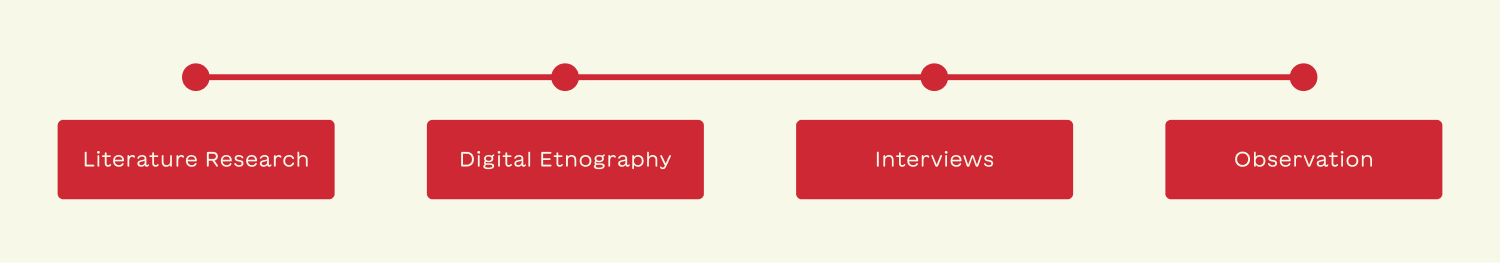
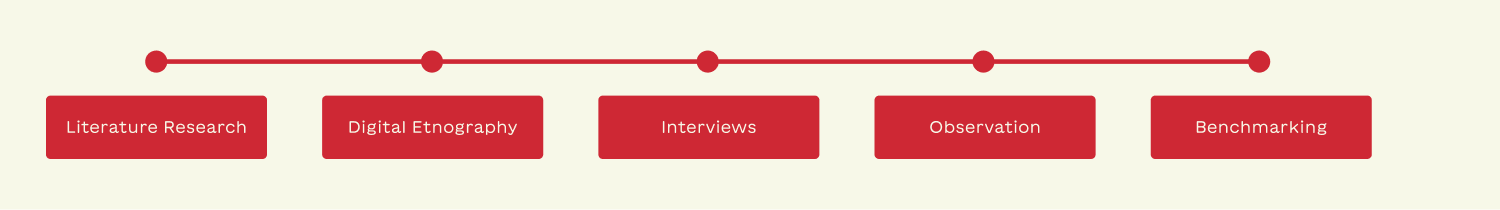
Research online

diff --git a/src/content/docs/guides/01-research.md b/src/content/docs/guides/01-research.md
@@ -3,9 +3,132 @@ title: Research
 description: Every good project starst with a lot of research.
 ---
 
-Guides lead a user through a specific task they want to accomplish, often with a sequence of steps.
-Writing a good guide requires thinking about what your users are trying to do.
+## Brief
 
-## Further reading
+**Natural Interactions**:
+Creating a delightful user experience through naturalness.
 
-- Read [about how-to guides](https://diataxis.fr/how-to-guides/) in the Diátaxis framework
+**City for All**:
+Addressing the challenges of citizens in a smart environment.
+
+### Natural Interaction
+
+_How did we interpret this concept?_
+
+For us Natural interactions are any way of communicating with an animate or inanimate entity intuitively, providing a contextual understanding and knowledge.
+
+It revolves around the concepts of **unobtrusiveness** and **intuition**.
+
+A natural interaction utilizes [tacit knowledge](https://www.sciencedirect.com/topics/computer-science/tacit-knowledge) in the following four categories: simple physics (gravity, friction, persistence of objects, relative scale); body awareness (proprioception, range of motion, two-handed coordination, whole-body interaction); environment awareness (navigation, depth perception, distance between objects); and social awareness and skills (presence of others, verbal and nonverbal communication).
+
+## Our Research path
+
+![Methodology](../../../assets/img/01_research/00.png)
+_Fig. 1.1 – Our Methodology_
+
+### Literature research
+
+We started our research focusing on neurodivergent people, trying to understand the broad spectrum of neurological differences, including Autism Spectrum Disorder (ASD), ADHD, and dyslexia, among others. We recognized the importance of acknowledging these differences, as they represent the diverse ways in which the brain functions and interprets information.
+
+In our research, we decided to put a particular emphasis on ASD. We've learned that ASD is not just about the challenges it presents but also involves a unique set of cognitive and social traits. The literature we've reviewed marks a significant shift from viewing ASD through a deficit-focused lens to a more comprehensive understanding of its characteristics. We've delved into how ASD affects cognitive processing and social interactions, gaining a more nuanced understanding of this condition.
+
+Furthermore, our research has led us to examine the impact of sports and physical activities on individuals with ASD. We've found compelling evidence that sports can greatly improve motor skills, enhance social interactions, and positively affect mental health for those on the spectrum. These findings highlight the importance of sports as not only a means of physical development but also as a valuable tool for social and skill development, crucial for the overall well-being of individuals with ASD.
+
+**All is for kids not adults**
+
+### Digital Ethnography
+
+Using more than 20,000 comments from YouTube videos related to ASD, keywords were taken out to analyze and then understand the thinking and perception of people. This was then categorized to better understand the issues faced and the design intervention possibilities.
+
+![Word Cloud](../../../assets/img/01_research/01.png)
+_Fig. 1.2 – Word Cloud_
+
+![Methodology](../../../assets/img/01_research/03.png)
+_Fig. 1.3 – _
+
+![Methodology](../../../assets/img/01_research/04.png)
+_Fig. 1.4 – _
+
+### Interviews
+
+After an initial desk research phase, we conducted interviews with individuals diagnosed with ASD and caretakers to understand the needs of these individuals through first-hand information. Based on these **interviews** we produced **empathy maps** to identify the pain points.
+
+![Intreviewees](../../../assets/img/01_research/05.png)
+_Fig. 1.5 – The people we interviewed_
+
+https://www.figma.com/embed?embed_host=notion&url=https%3A%2F%2Fwww.figma.com%2Ffile%2FUTkDIgZWIjtKdC09k3eOOx%2FFDS-%7C-Website%3Ftype%3Ddesign%26node-id%3D191-1506%26mode%3Ddesign%26t%3DVdBQ1izPf1gklZxv-11
+
+The pain points mentioned in the interview were matching with our literature research, as the interviewees mentioned they struggle with their social relationships, found the sensory input overwhelming, and appreciate patience and understanding in communication and hobbies to release energy.
+
+A common point that was mentioned in the interviews was that most of the interventions, support systems, and therapy sessions are usually organized for children, and less for young adults or adults. As we identified this gap, we decided to mainly focus on young adults and adults.
+
+## Field Observation (PlayMore! visit)
+
+(PLAYMORE OBSERVATIONS & PICZZ)
+
+### What is _PlayMore!_?
+
+![PlayMore!](../../../assets/img/01_research/06.jpeg)
+_Fig. 1.6 – The entrance of PlayMore!_
+
+PlayMore is a sports center based in Milano, in Via della Moscova. They organize multiple sports activities and events and many associations work inside the PlayMore! space. One of these associations is RunChallenge.
+
+### What is RunChallenge?
+
+![The Flocky Team](../../../assets/img/01_research/07.jpeg)
+_Fig. 1.7 – Team Flocky ready to run_
+
+RunChallenge is a network of inclusive running clubs, now widespread all over Italy (and some of Europe), with a total of 11 branches.
+
+They organize group running sessions for every ability, promoting a healthy lifestyle, inclusivity, and socialization. For them running is not just a physical activity but an opportunity to be part of a lively community.
+
+We were kindly invited there to participate in a training session with them, and we excitedly accepted.
+
+We arrived half an hour before the start of the training and we were welcomed by our contact, Davide Lovino, a trainer and one of the founders of RunChallenge. He introduced us to PlayMore! and the RunChallenge family and explained to us how it works, who the runners are, and how the association grew over the years.
+
+Our goal was to surgically observe every part of the process, trying to find steps in which a natural interaction could improve or enhance the experience.
+
+![The Flocky Team](../../../assets/img/01_research/08.jpeg)
+_Fig. 1.8 – The RunChallenge family_
+
+### How does the training work?
+
+- Gather in the PlayMore! plaza
+- Welcome new runners into the group
+- The trainer explains the workout of the day for each group's level of ability
+- Each group gathers with the corresponding trainer
+- Quick warm-up before heading to the closest park
+- Exercises, Run, Sprints, Walks, and many laughs around the park
+- Reach a meeting point in the park, to end the training with stretches and exercises to foster relational skills like the “heart exchange” where every runner has to give a paper heart with the RC> logo to someone else and exchange names
+- Go back to the training facility to unwind and socialize after the training
+
+### Observation Results
+
+The training experience per se was amazing: we split into four groups (walk, slow run, medium run, and fast run), so we had the chance to experience everything, talking to people and learning why they were there.
+
+The experience was flawless. Everyone was so happy and supportive of each other. We started to see something that with mere literature research we could merely grasp: is not about physical activity itself, for people, especially people with disabilities, those running sessions are a way to stay together, put aside their differences, and enjoy the calmness and energy of an outdoor activity.
+
+### The Area of Intervention
+
+From this visit, we took away two important things:
+
+1.  **The act we want to enhance**: during the training, independently from the group we were in, we assisted multiple times with the same phenomenon: as soon as the length of the group became too much, or in case some people were left behind, the Trainer shouted “Cucchiaio!”, and all the group made a U-turn, to go back and pick up the ones left behind. For this moment to happen it requires the attention of every volunteer in the group, who monitors every runner's position, looking constantly back and forth. At least two volunteers are needed: a head and a tail.
+    This method is not precise and is subjected to human error, we also collected some comments from trainers saying that they have to be extremely careful not to miss anyone, especially when, in the winter, they train after sunset. This gives them a lot of anxiety.
+    Now they are well staffed but at the beginning, or in the case of newborn RunChallenge facilities, it might not be easy to monitor the group.
+    > _How might we enable a more accurate tracking of the group of runners, so that both Trainers and Runners could fully enjoy the training process?_ >
+2.  The target needed to change: it’s not “just” people with disabilities. Design for inclusivity means designing in a way that enables **everyone** to benefit from the solution. Our new focus then became Trainers and Runners (who may or may not have a disability.)
+
+### The Dilemma
+
+How can we enhance this beautiful experience? How can we **add** something without ruining the already naturalness of this moment?
+
+The answer is that what we add should be unobtrusive: completely invisible until there is a real need for it.
+
+## Benchmarking
+
+To analyze the existing products in the market related to tracking workouts, we have conducted a benchmarking study.
+
+![Benchmarking](../../../assets/img/01_research/09.png)
+_Fig. 1.8 – Benchmarking_
+
+Our benchmarking analysis revealed that the current market predominantly offers products for personal tracking, with an absence of integrated social and safety features. Also, most are used for tracking either fitness activities o health, but usually not both. The devices designed for both are smartwatches, like “Fitbit” which we put as a popular example. They accommodate many features and are capable of sharing some of the data with friends, but their primary function is for personal use. This insight led us to identify a significant market opportunity for a product to be used merely for group activities. This can combine safety and data tracking capabilities but also emphasize a real-time social engagement feature.
